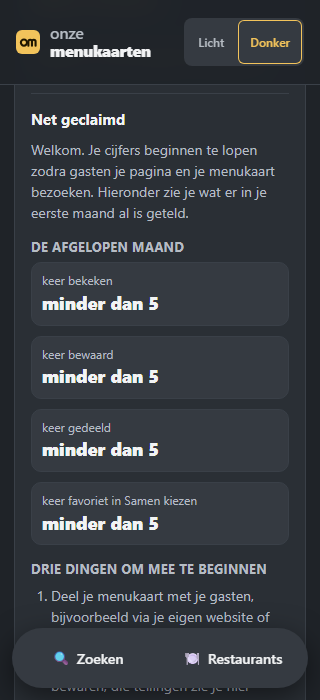
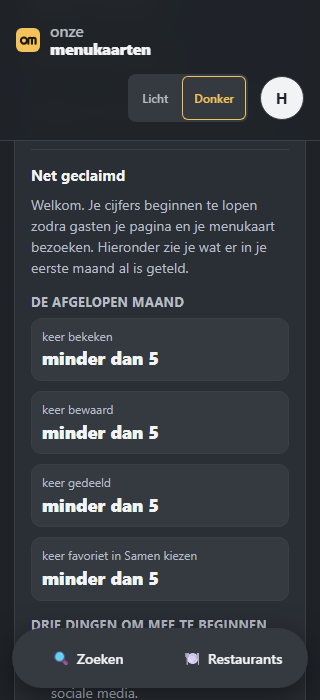
fix(be59): de kop van Mijn restaurant blijft onder 360px een regel (#146)

diff --git a/app/mijn-restaurant/mijn-restaurant.css b/app/mijn-restaurant/mijn-restaurant.css
@@ -159,3 +159,25 @@
 @media (max-width: 720px) {
   .owner-main { padding-bottom: 112px; }
 }
+
+/* BE-59 integratie (#146): op 320 px paste de kop niet meer op één regel sinds
+   de accountknop (44 px) in `.header-right` staat. Gemeten hoogte werd 141 px,
+   terwijl BE-57 eist dat de kop niet hoger wordt dan 96 px en dat "Deze week"
+   met de vier cijfers volledig in beeld blijft.
+
+   Het woordmerk, het themablok en de avatar samen zijn ±339 px breed; op 320 px
+   is er 288 px beschikbaar (twee regels zouden minstens 120 px hoog zijn). Deze
+   pagina laat daarom onder 360 px de tekst van het woordmerk weg en houdt de
+   tegel: precies de bestaande smalle-smartphoneconventie van de interne
+   navigatie (app/globals.css, `.internal-nav-home .wordmark-text`). De
+   toegankelijke naam van de link blijft "Onze Menukaarten, naar de startpagina"
+   (aria-label op het woordmerk), en geen enkel tikvlak wordt kleiner: tegel,
+   themablok en avatar houden hun 44 px. Alleen de tussenruimte krimpt mee.
+
+   390 px houdt exact de nagemeten opmaak; daar past alles nog op één regel. */
+@media (max-width: 360px) {
+  .owner-header .header-inner { padding: 10px 12px; gap: 6px 10px; }
+  .owner-header .header-right { gap: 8px; }
+  .owner-header .wordmark { gap: 8px; }
+  .owner-header .wordmark-text { display: none; }
+}

diff --git a/app/mijn-restaurant/OwnerDashboard.test.js b/app/mijn-restaurant/OwnerDashboard.test.js
@@ -53,6 +53,27 @@ test('de kop gebruikt dezelfde opbouw als /mijn-restaurant/claimen: PrimaryNav e
   );
 });
 
+test('onder 360 px blijft de kop één regel: eigen smalle regel, geen verborgen accountknop', () => {
+  const css = read(CSS);
+  assert.match(
+    read(DASHBOARD),
+    /<header className="site-header owner-header">/,
+    'de smalle kopregels moeten aan deze pagina hangen, niet aan de gedeelde kop',
+  );
+  const narrow = css.match(/@media \(max-width: 360px\) \{[\s\S]*?\n\}/);
+  assert.ok(narrow, 'de pagina hoort een eigen regel onder 360 px te hebben');
+  assert.match(
+    narrow[0],
+    /\.owner-header \.wordmark-text \{ display: none; \}/,
+    'op 320 px past woordmerk + themablok + avatar niet naast elkaar; de tekst vervalt, de tegel blijft',
+  );
+  assert.doesNotMatch(
+    narrow[0],
+    /account-menu|theme-switch|theme-btn/,
+    'de accountknop en het themablok mogen op smalle schermen niet verdwijnen of kleiner worden',
+  );
+});
+
 test('op mobiel doet de bestaande MobileTabBar de navigatie, na de main', () => {
   const source = read(DASHBOARD);
   assert.match(source, /import MobileTabBar from ['"]@\/src\/components\/MobileTabBar['"]/);

diff --git a/app/mijn-restaurant/OwnerDashboard.js b/app/mijn-restaurant/OwnerDashboard.js
@@ -206,7 +206,7 @@ export default function OwnerDashboard({ restaurantIndex }) {
           "Deze week" niet onder de vaste kop. Het nav-landmark blijft altijd
           aanwezig: PrimaryNav op desktop, MobileTabBar (aria-label "Hoofdmenu")
           op mobiel. */}
-      <header className="site-header">
+      <header className="site-header owner-header">
         <div className="header-inner">
           <Wordmark />
           <div className="header-right">
